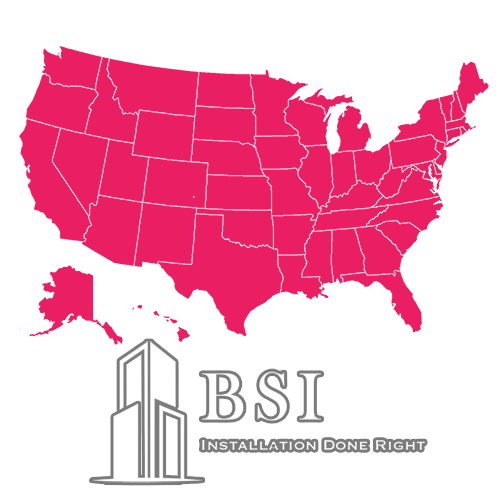
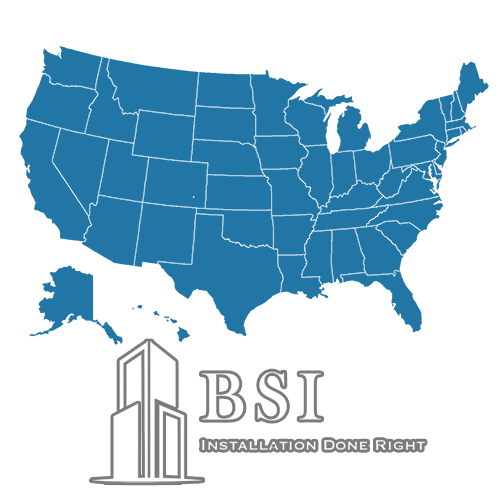
new colors blue

diff --git a/css/tooplate-style.css b/css/tooplate-style.css
@@ -1,7 +1,6 @@
 :root {
   --white: #ffffff;
-  --blue: rgb(84, 97, 139);
-  --pink: #e91e63;
+  --blue: #2276a5;
   --bg-display: -webkit-linear-gradient(
     top,
     rgb(84, 97, 139) 0%,
@@ -180,9 +179,9 @@ p {
 }
 
 .texto-titulo {
-  color: var(--pink);
+  color: var(--blue);
   font-size: 2rem;
-  text-shadow: 0.7px 0.7px #343434;
+  text-shadow: 0.7px 0.7px #f8f8f8;
 }
 
 .img-detail {
@@ -400,7 +399,7 @@ p {
 
 .slick-dots li.slick-active button:before {
   opacity: 0.75;
-  color: var(--pink);
+  color: var(--blue);
 }
 
 /* Contact */
@@ -448,7 +447,7 @@ p {
 }
 
 .btn-primary:hover {
-  background-color: var(--pink);
+  background-color: var(--blue);
   border-color: transparent;
 }
 
@@ -465,7 +464,7 @@ footer {
   color: var(--white);
 }
 .tm-text-highlight:hover {
-  color: var(--pink);
+  color: var(--blue);
 }
 .tm-main-content.tm-footer-relative {
   flex-direction: column;
